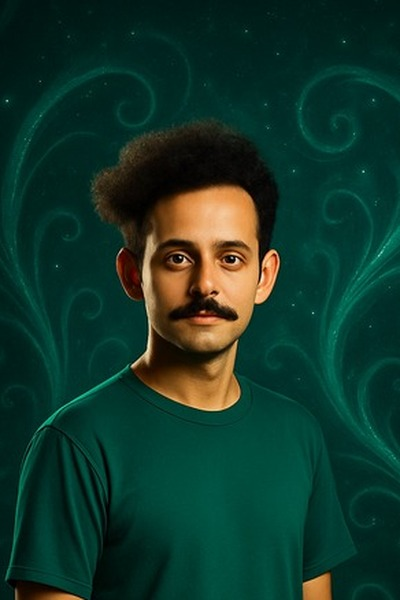
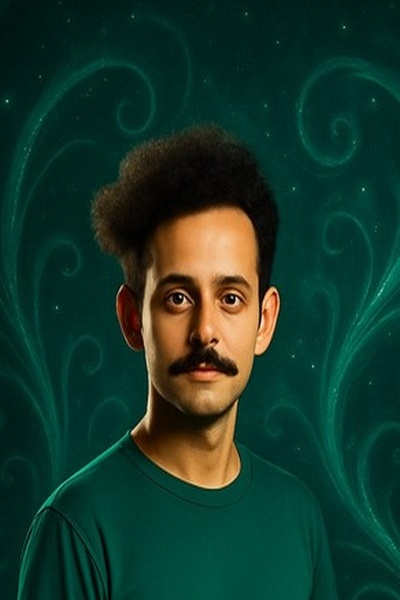
Fix: crop Mathias/Diego photos to raise face framing, remove broken scale styles

diff --git a/index.html b/index.html
@@ -219,7 +219,7 @@
             <h2 class="section-title">Elenco</h2>
             <div class="cast-grid">
                 <div class="cast-member">
-                    <img src="images/elenco/mathias-albarracin.jpg" alt="Mathias Albarracín" loading="lazy" style="object-position: center 15%; transform: scale(1.15); transform-origin: top center;">
+                    <img src="images/elenco/mathias-albarracin.jpg" alt="Mathias Albarracín" loading="lazy">
                     <h3>Mathias Albarracín</h3>
                     <p class="member-role">Hombre Hojalata</p>
                 </div>
@@ -229,7 +229,7 @@
                     <p class="member-role">León</p>
                 </div>
                 <div class="cast-member">
-                    <img src="images/elenco/diego-de-leon.jpg" alt="Diego de León" loading="lazy" style="object-position: center 15%; transform: scale(1.18); transform-origin: top center;">
+                    <img src="images/elenco/diego-de-leon.jpg" alt="Diego de León" loading="lazy">
                     <h3>Diego de León</h3>
                     <p class="member-role">Mago de Oz</p>
                 </div>
